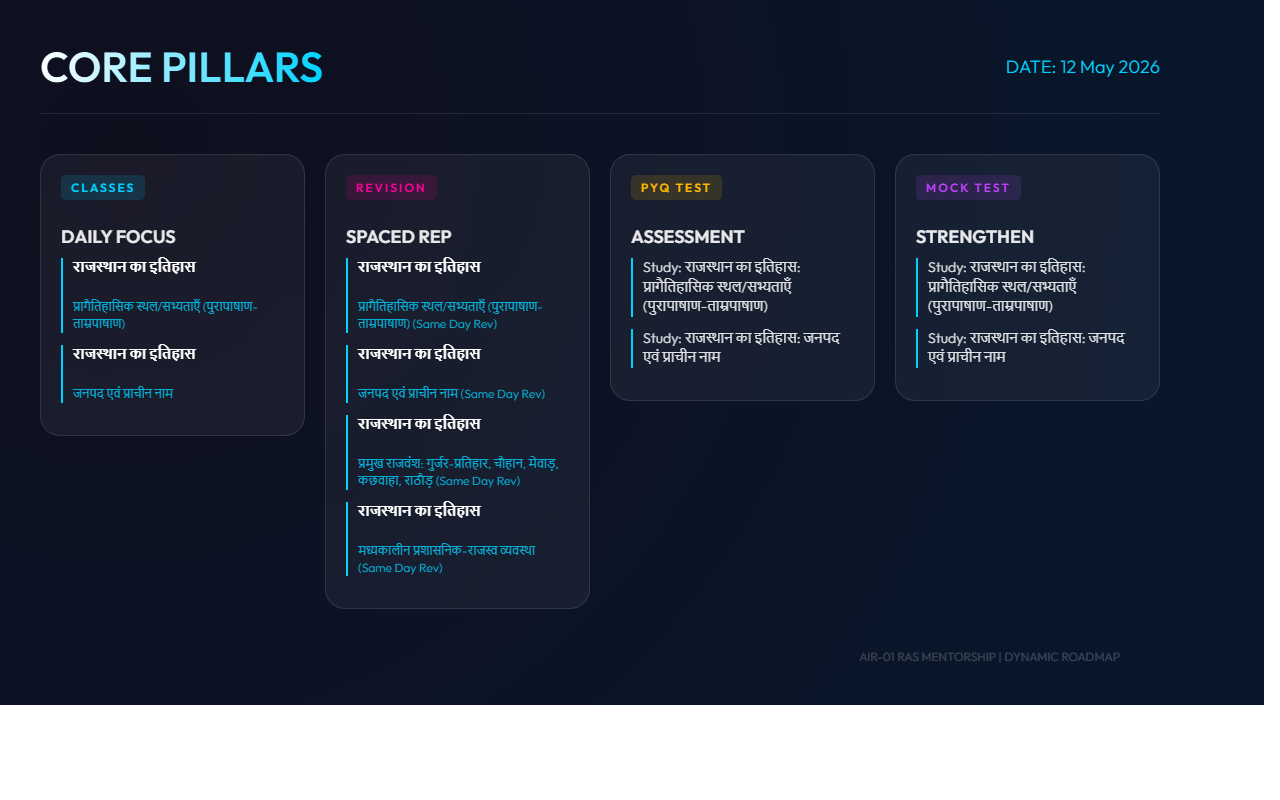
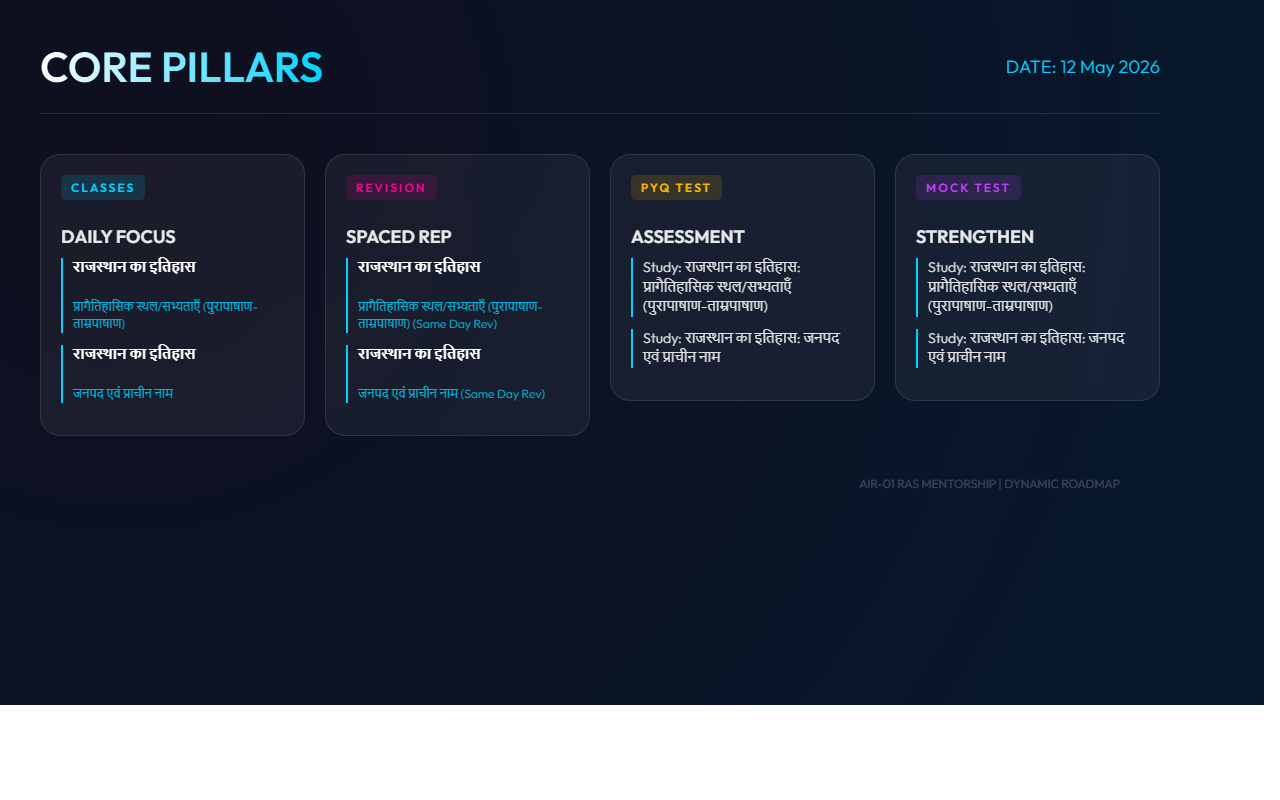
Final Secure Setup: R-Drive, Weekly Roadmap, and Fixes

Changed region(s): [[0.2812, 0.5, 0.4375, 0.7188], [0.6875, 0.8125, 0.875, 0.8438], [0.6875, 0.5938, 0.875, 0.625]]

diff --git a/adaptive_logic.py b/adaptive_logic.py
@@ -8,34 +8,30 @@ SHEET_ID = "1Zo81TfPcU09ErH7g-bj-4TksqceuBmiL"
 DOWNLOAD_URL = f"https://docs.google.com/spreadsheets/d/{SHEET_ID}/export?format=xlsx"
 
 def get_tracker_path():
-    target_path = os.path.join("data", "Master_Tracker_Live.xlsx")
-    
-    # 1. If on Cloud (GitHub)
-    if os.environ.get("GITHUB_ACTIONS"):
-        if os.path.exists(target_path): return target_path
-        print("Cloud Mode: Downloading latest tracker...")
-        try:
-            os.makedirs("data", exist_ok=True)
-            r = requests.get(DOWNLOAD_URL)
-            with open(target_path, "wb") as f:
-                f.write(r.content)
-            return target_path
-        except:
-            return glob.glob(os.path.join("**", "*Master Tracker RAS.xlsx"), recursive=True)[0]
-    
-    # 2. If on Local PC, search multiple locations
-    search_paths = [
-        os.path.join("data", "Master_Tracker_Live.xlsx"),
-        "Master_Tracker_Live.xlsx",
-        os.path.join("..", "राजस्थान का इतिहास", "📋 Master Tracker", "Master Tracker RAS.xlsx"),
-        r'C:\Users\jlpms\OneDrive\Desktop\राजस्थान का इतिहास\📋 Master Tracker\Master Tracker RAS.xlsx'
+    # Potential search directories
+    search_dirs = [
+        r"R:\Study_Automation_System",
+        r"R:\Study_Automation_System\data",
+        os.path.join(os.path.expanduser("~"), "OneDrive", "Desktop"),
+        os.path.join(os.path.expanduser("~"), "Desktop")
     ]
-    for p in search_paths:
-        if os.path.exists(p): return p
-        
-    # Fallback search
-    found = glob.glob(os.path.join("**", "*Master Tracker RAS.xlsx"), recursive=True)
-    return found[0] if found else target_path
+    
+    found_files = []
+    for d in search_dirs:
+        if os.path.exists(d):
+            # Find all xlsx files with 'Master Tracker' in name
+            pattern = os.path.join(d, "*Master Tracker*.xlsx")
+            found_files.extend(glob.glob(pattern))
+            # Also check for 'Master_Tracker_Live'
+            found_files.extend(glob.glob(os.path.join(d, "Master_Tracker_Live.xlsx")))
+
+    if not found_files:
+        return os.path.join("data", "Master_Tracker_Live.xlsx")
+    
+    # Sort by modification time (Newest first)
+    found_files.sort(key=os.path.getmtime, reverse=True)
+    print(f"DEBUG: Found {len(found_files)} potential trackers. Choosing newest: {found_files[0]}")
+    return found_files[0]
 
 def get_adaptive_tasks():
     today = datetime.now().date()
@@ -102,19 +98,25 @@ def get_adaptive_tasks():
         if h_str == 'topic': topic_idx = i # Strict match for 'topic'
         if h_str == 'status': status_idx = i
 
-    print(f"DEBUG: Using Indices - Section:{section_idx}, Topic:{topic_idx}, Status:{status_idx}")
-
+    print(f"DEBUG: Reading File -> {os.path.abspath(tracker_file)}")
+    
     count = 0
-    # Sequential Picker: Pick first 4 pending tasks without any complex filtering
+    # Sequential Picker: Pick first 2 pending tasks
     for row_idx, row in enumerate(sheet.iter_rows(min_row=4, max_row=200, values_only=True), 4):
         if not row: continue
         
         section = str(row[section_idx]).strip() if row[section_idx] is not None else ""
         topic = str(row[topic_idx]).strip() if row[topic_idx] is not None else ""
-        status = str(row[status_idx]).strip().lower() if status_idx < len(row) and row[status_idx] is not None else ""
         
+        raw_status = row[status_idx] if status_idx < len(row) else None
+        status = str(raw_status).strip().lower() if raw_status is not None else ""
+        
+        # Super Safe Debug for first few rows
+        if row_idx <= 6:
+            print(f"DEBUG: Row {row_idx} | Topic: '{topic}' | Raw Status: '{raw_status}'")
+
         if topic and status != "done":
-            if len(classes_list) < 4:
+            if len(classes_list) < 2:
                 print(f"DEBUG: ✅ PICKED Topic at Row {row_idx}: {topic}")
                 classes_list.append({'subject': section, 'topic': topic})
                 revisions.append({'subject': section, 'topic': f"{topic} (Same Day Rev)"})

diff --git a/image_generator.py b/image_generator.py
@@ -21,21 +21,20 @@ def create_pillar_schedule_image(tasks_data):
             classes_html += f"<li><strong>{sub}</strong><br><small>{top}</small></li>"
             
     revisions_html = ""
-    # Flatten revisions if nested, or handle as list
-    all_revs = []
+    # Smart Find: Search for the Revision task in the list
     for item in tasks_data:
-        if 'revisions' in item:
-            all_revs.extend(item['revisions'])
-            
-    for rev in all_revs:
-        revisions_html += f"<li><strong>{rev['subject']}</strong><br><small>{rev['topic']}</small></li>"
+        if item.get('task') == 'REVISION':
+            revisions = item.get('revisions', [])
+            for rev in revisions:
+                revisions_html += f"<li><strong>{rev['subject']}</strong><br><small>{rev['topic']}</small></li>"
+            break
 
     # Prepare PYQ Test Section (All classes)
     pyq_topics_html = ""
     for task in tasks_data:
-        sub = task.get('subject', '')
-        top = task.get('topic', '')
-        if sub and '[' not in sub and 'task' in task and 'CLASSES' in task['task']:
+        if 'CLASSES' in task.get('task', ''):
+            sub = task.get('subject', '')
+            top = task.get('topic', '')
             pyq_topics_html += f"<li>Study: {sub}: {top}</li>"
 
     html_content = f"""